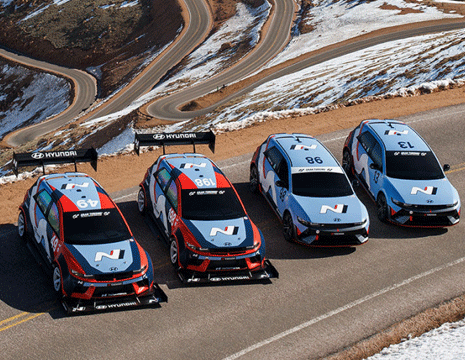
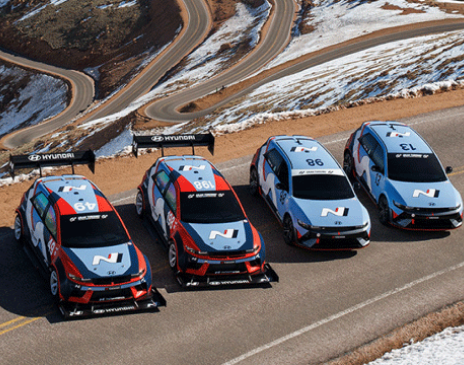
- 디자인과 이미지 해상도 사이즈 동일하게 적용 - img_main_summery03.png 파일 타이미지와 다른 사이즈라 최신버전으로 업데이트하였음

diff --git a/inc/css/main.css b/inc/css/main.css
@@ -65,6 +65,7 @@
 .main_summery_card img {
   width: 100%;
   height: auto;
+  min-height: 365px;
 }
 .main_summery_card div {
   display: flex;
@@ -187,6 +188,11 @@
   margin-top: 76px;
 }
 
+@media screen and (min-width:1024px) and (max-width: 1440px) {
+  .main_summery_card img {
+    min-height: 214px;
+  }
+}
 @media screen and (max-width: 1023px) {
   .main_summery_wrap {
     padding: 6.25rem 0;
@@ -305,5 +311,9 @@
   }
   .main_Nfluencer_wrap .grid_masonry + .btn-wrap-default {
     margin-top: 64px;
+  }
+
+  .main_summery_card img {
+    min-height: 203px;
   }
 }
